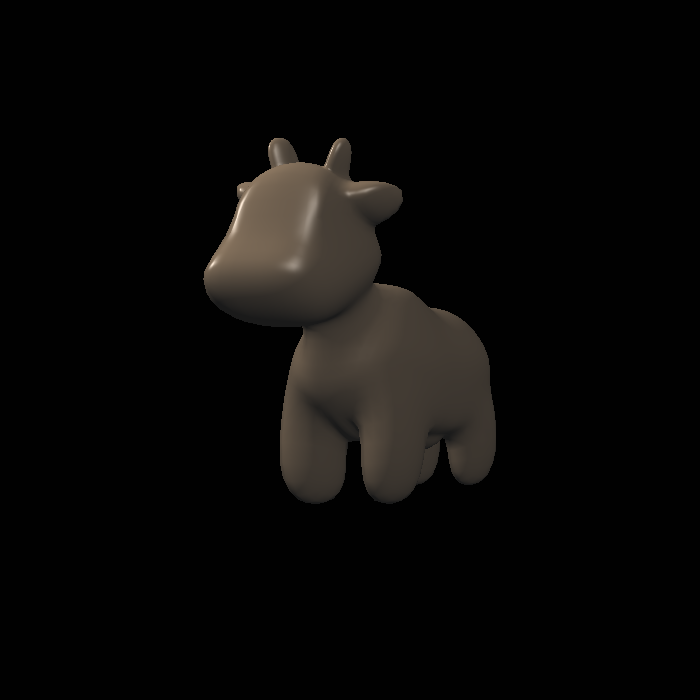
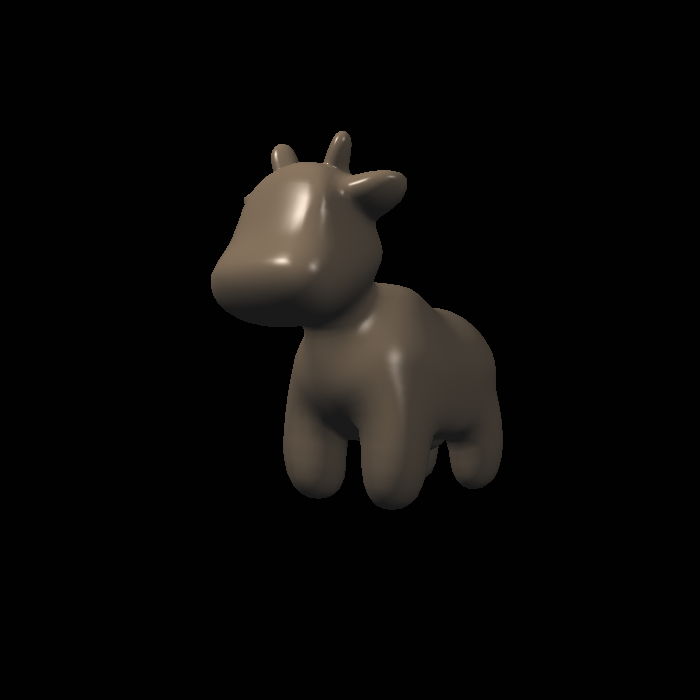
view pos bugs

diff --git a/src/utils.rs b/src/utils.rs
@@ -19,7 +19,7 @@ pub(crate) fn get_model_matrix(rotation_angle: f64) -> Matrix4<f64> {
     model[(0, 0)] = rad.cos();
     model[(2, 2)] = model[(0, 0)];
     model[(0, 2)] = rad.sin();
-    model[(2, 0)] = -model[(0, 1)];
+    model[(2, 0)] = -model[(0, 2)];
     let mut scale: Matrix4<f64> = Matrix4::identity();
     scale[(0, 0)] = 2.5;
     scale[(1, 1)] = 2.5;
@@ -108,20 +108,16 @@ pub fn phong_fragment_shader(payload: &FragmentShaderPayload) -> Vector3<f64> {
         let l = (light.position - point).normalize();
         let h = (v + l).normalize();
         let rsq = (light.position - point).dot(&(light.position - point));
-        if rsq < 810.0 {
-            println!("{:?}", light.position);
-            print!("{:?}", point);
-            println!("{rsq} ");
-        }
+        // if rsq < 810.0 {
+        //     println!("{:?}", light.position);
+        //     print!("{:?}", point);
+        //     println!("{rsq} ");
+        // }
         let df = normal.normalize().dot(&l);
 
         let ld = kd.component_mul(&(light.intensity / rsq)) * df.max(0.0);
         let ls = h.dot(&normal).powf(p) * ks.component_mul(&(light.intensity / rsq));
         result_color += la + ld + ls;
-        // if ls.norm() > 0.7 {
-        //     print!("{:?}", ld);
-        //     println!("{} ", ls[0] as f32);
-        // }
     }
     result_color * 255.0
 }

diff --git a/src/rasterizer.rs b/src/rasterizer.rs
@@ -165,7 +165,7 @@ impl Rasterizer {
                     }
                 }
             }
-            break
+            // break;
         }
     }
     fn interpolate3(a: f64, b: f64, c: f64, vert1: Vector3<f64>, vert2: Vector3<f64>, vert3: Vector3<f64>, weight: f64) -> Vector3<f64> {
@@ -183,6 +183,13 @@ impl Rasterizer {
         let mm: Vec<Vector4<f64>> = (0..3).map(|i| view * model * t.v[i]).collect();
         let view_space_pos: Vec<Vector3<f64>> = mm.iter().map(|v| v.xyz()).collect();
         let mut v: Vec<Vector4<f64>> = (0..3).map(|i| mvp * t.v[i]).collect();
+
+        // println!("{:?}", view);
+        // println!("{:?}", model);
+        // println!("{:?}", mvp);
+        //
+        // println!("{:?}", mm);
+        // println!("{:?}", view_space_pos);
 
         for vec in v.iter_mut() {
             vec.x /= vec.w;

diff --git a/src/triangle.rs b/src/triangle.rs
@@ -3,7 +3,7 @@
 use std::process::exit;
 use nalgebra::{Vector2, Vector3, Vector4};
 
-#[derive(Default, Clone)]
+#[derive(Default, Clone, Debug)]
 pub struct Triangle {
     pub v: [Vector4<f64>; 3],
     pub color: [Vector3<f64>; 3],
